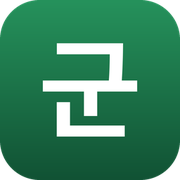
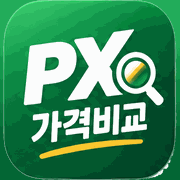
홈 화면 아이콘을 PX 가격비교 브랜드로
`군` 한 글자라 무슨 앱인지 알 수 없었다. 상표가 `PX 가격비교` 로 통일된
뒤로 아이콘만 따로 놀았다.

받은 에셋을 그대로 못 쓴다 — 여백이 투명이 아니라 흰색이라 홈 화면에서
흰 테두리가 남는다. 털어내고, 안드로이드용(maskable)은 0.78 로 줄여
넣고 빈 곳을 원본 그러데이션으로 채웠다. 색을 256개로 줄여 86% 작아졌다.

만드는 법은 `브랜드/아이콘만들기.py`, 원본은 `브랜드/원본에셋/`.

diff --git a/sw.js b/sw.js
@@ -1,7 +1,7 @@
 /* 홈 화면에 추가된 뒤에도 늘 새것을 본다.
    캐시를 먼저 보게 하면 새로 구운 것이 폰에 안 닿는다. 실제로 그래서
    잠금 화면이 사람들 폰에 계속 떴던 적이 있다. 네트워크가 먼저다. */
-const C = "gmpx-20260925003345";
+const C = "gmpx-20260925005930";
 self.addEventListener("install", () => self.skipWaiting());
 self.addEventListener("activate", e => e.waitUntil(
   caches.keys()
